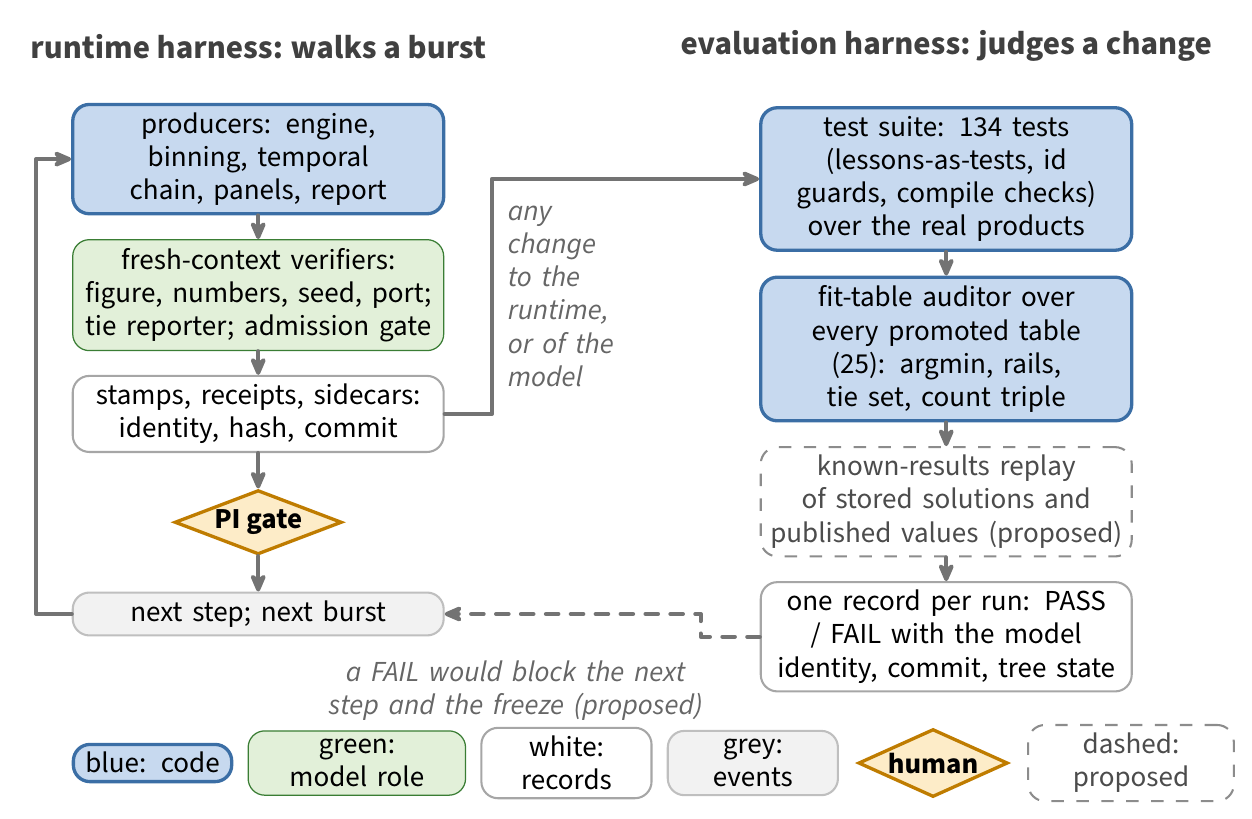
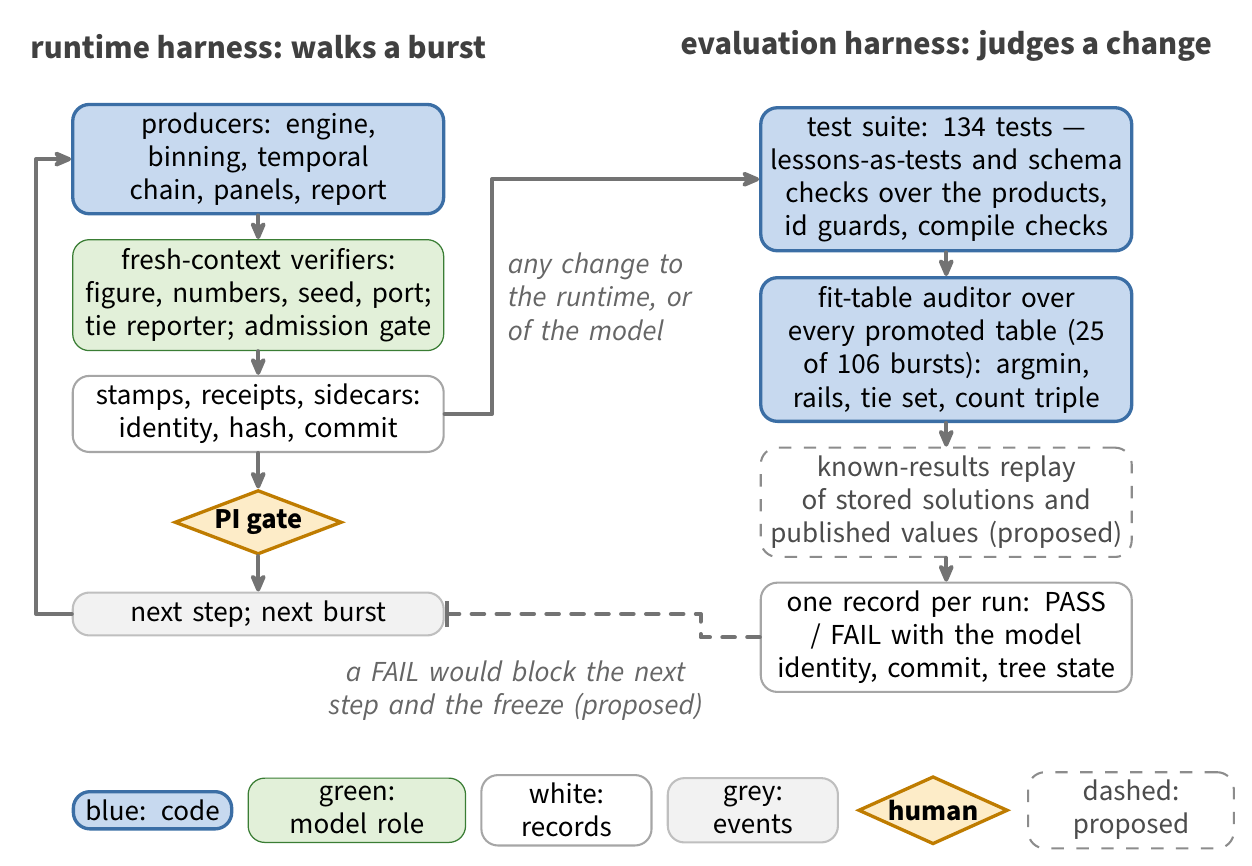
F8 r3: nits applied (legend clearance to the 2.5 mm rule, coupling label re-wrapped, inhibition bar tip on the proposed return, test-suite and promoted-table wording scoped, caption dates the census and calls the trigger a discipline); grey declared in the colour amendment
Claude-Session: https://claude.ai/code/session_014ZKU13JNR6E9CyYseiK5df

diff --git a/paper_agentic/figures/fig_F8_eval_harness.tex b/paper_agentic/figures/fig_F8_eval_harness.tex
@@ -36,19 +36,19 @@
 
 % right column: evaluation harness
 \node[head, right=14mm of hl] (hr) {evaluation harness: judges a change};
-\node[code, below=2.5mm of hr] (tests) {test suite: 134 tests (lessons-as-tests, id guards, compile checks) over the real products};
-\node[code, below=of tests] (audit) {fit-table auditor over every promoted table (25): argmin, rails, tie set, count triple};
+\node[code, below=2.5mm of hr] (tests) {test suite: 134 tests --- lessons-as-tests and schema checks over the products, id guards, compile checks};
+\node[code, below=of tests] (audit) {fit-table auditor over every promoted table (25 of 106 bursts): argmin, rails, tie set, count triple};
 \node[prop, below=of audit] (known) {known-results replay of stored solutions and published values (proposed)};
 \node[box, below=of known] (rec) {one record per run: PASS / FAIL with the model identity, commit, tree state};
 \draw[arr] (tests) -- (audit); \draw[arr] (audit) -- (known); \draw[arr] (known) -- (rec);
 
 % the coupling
-\draw[arr] (stamp.east) -- ++(4mm,0) |- node[lab, pos=0.25, right, text width=11mm, align=left] {any change to the runtime, or of the model} (tests.west);
-\draw[arr, dashed] (rec.west) -- ++(-5mm,0) |- (next.east);
+\draw[arr] (stamp.east) -- ++(4mm,0) |- node[lab, pos=0.25, right, text width=17mm, align=left] {any change to the runtime, or of the model} (tests.west);
+\draw[arr, dashed, -{Bar[width=2.2mm]}] (rec.west) -- ++(-5mm,0) |- (next.east);
 \node[lab, below=0.8mm of next.south east, anchor=north, text width=34mm, align=center, xshift=6mm] {a FAIL would block the next step and the freeze (proposed)};
 
 % legend
-\node[code, below=9mm of next.south west, anchor=north west, text width=12mm, font=\sffamily\scriptsize] (l1) {blue: code};
+\node[code, below=13mm of next.south west, anchor=north west, text width=12mm, font=\sffamily\scriptsize] (l1) {blue: code};
 \node[agent, right=1.2mm of l1, text width=17mm, font=\sffamily\scriptsize] (l2) {green: model role};
 \node[box, right=1.2mm of l2, text width=13mm, font=\sffamily\scriptsize] (l3) {white: records};
 \node[event, right=1.2mm of l3, text width=13mm, font=\sffamily\scriptsize] (l3b) {grey: events};

diff --git a/paper_agentic/v3/sec10_discussion.tex b/paper_agentic/v3/sec10_discussion.tex
@@ -108,9 +108,12 @@ the fit-table auditor over every promoted table, and the proposed
 known-results replay, run as one command whose record carries the model
 identity and the commit (counts at the 2026 September~3 census). Every
 change to the runtime harness, and every change of model, is a reason to
-run the right-hand side. The dashed return, a failed battery blocking the
-freeze, is proposed: today the battery records its verdict and nothing
-yet consumes it.}
+run the right-hand side, but that trigger is a discipline rather than a
+hook: the pre-commit gate that would enforce it is proposed. The counts are
+the census of 2026 September~3, and the promoted tables are those of the
+twenty-five bursts promoted so far. The dashed return, a failed battery
+blocking the next step and the freeze, is proposed: today the battery
+records its verdict and nothing yet consumes it.}
 \label{fig:evalharness}
 \end{figure}
 

diff --git a/paper_agentic/figures/GATE_LEDGER.md b/paper_agentic/figures/GATE_LEDGER.md
@@ -1,6 +1,6 @@
 # Paper v3 diagram gate ledger — TRACKED COPY
 
-Copied from `results/campaign/agentfigs/VISION_QC.md` (gitignored under results/*) at 2026-09-03T21:58:02Z, so the approval record of the manuscript's diagrams is commit-recoverable (Codex supervisor review D4, 2026-09-02). The results/ file remains the ledger the no-ship hook reads; this copy is refreshed by the building session whenever a diagram row changes.
+Copied from `results/campaign/agentfigs/VISION_QC.md` (gitignored under results/*) at 2026-09-03T21:59:18Z, so the approval record of the manuscript's diagrams is commit-recoverable (Codex supervisor review D4, 2026-09-02). The results/ file remains the ledger the no-ship hook reads; this copy is refreshed by the building session whenever a diagram row changes.
 
 ## Paper v3 diagrams — gate ledger appended 2026-09-03T03:32:12Z by the building session (verdicts by fresh-context figure-verifier agents; producer = building session)
 
@@ -85,3 +85,8 @@ Tie-break (F1 colour gate, 2026-09-03): a DOCUMENT the model reads (protocol, gu
[1 lines of base64/hex data omitted]
 | F7 | r2 verdict | — | — | FAIL — numbers PASS in full (every bar, the cumulative 23, the whitelist, the dedupe, the L26→TM3 alias and the five walkthrough lessons re-derived and confirmed; the heading rule shown to bias ~17% LOW, so the last bar is a floor); three vision defects: the legend covered 51% of the provisional note and its frame ran through a glyph, an x tick speared the "tallied" label, and that label printed at 4.2 pt |
[1 lines of base64/hex data omitted]
+
+Colour amendment addendum (F4/F8 precedent, recorded 2026-09-03): GREY fill (black!5-black!6, frame black!25) = an EVENT or STATE that is neither code, role, document nor human (incident, freeze, next burst, next step); the enforcement-hierarchy ladder's grey ramp grades strength and is not this category. Every figure using it declares it in its legend.
+
+| F8 | r2 verdict | — | — | PASS-WITH-NITS — H1/H2/H3 closed and independently falsified (0 stroke points inside any box; label 3.98 mm printed from the record box; no consumer of the battery's exit code anywhere on disk, so "nothing yet consumes it" is true); counts 134 and 25 re-derived; nits: 0.55 mm printed label-to-legend gap against the 2.5 mm rule used on F4, coupling label wrapped to six lines with 35 pt unused beside it, an arrowhead reading as flow where inhibition was meant, "over the real products" overstated (>=77 of the 134 open no product), "25" unscoped, grey undeclared in the amendment, tex sha not bound in the ledger |
[1 lines of base64/hex data omitted]
